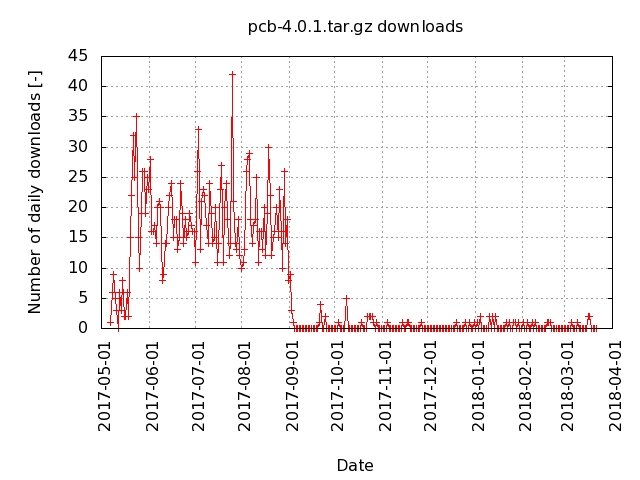
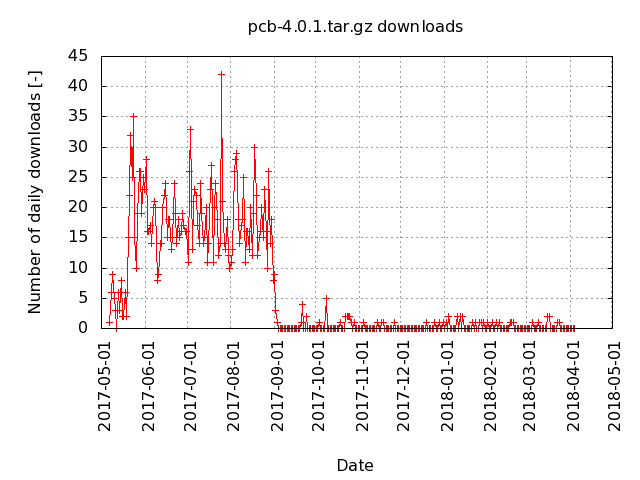
Updated until April 5th, 2018.

diff --git a/README.md b/README.md
@@ -52,4 +52,4 @@ Download metrics for [pcb](http://pcb.geda-project.org) from [SourceForge](https
 
 ![pcb-alltime](gnuplot/graphs/pcb-alltime.png)
 
-(data last updated on 2018-03-22)
+(data last updated on 2018-04-05)
